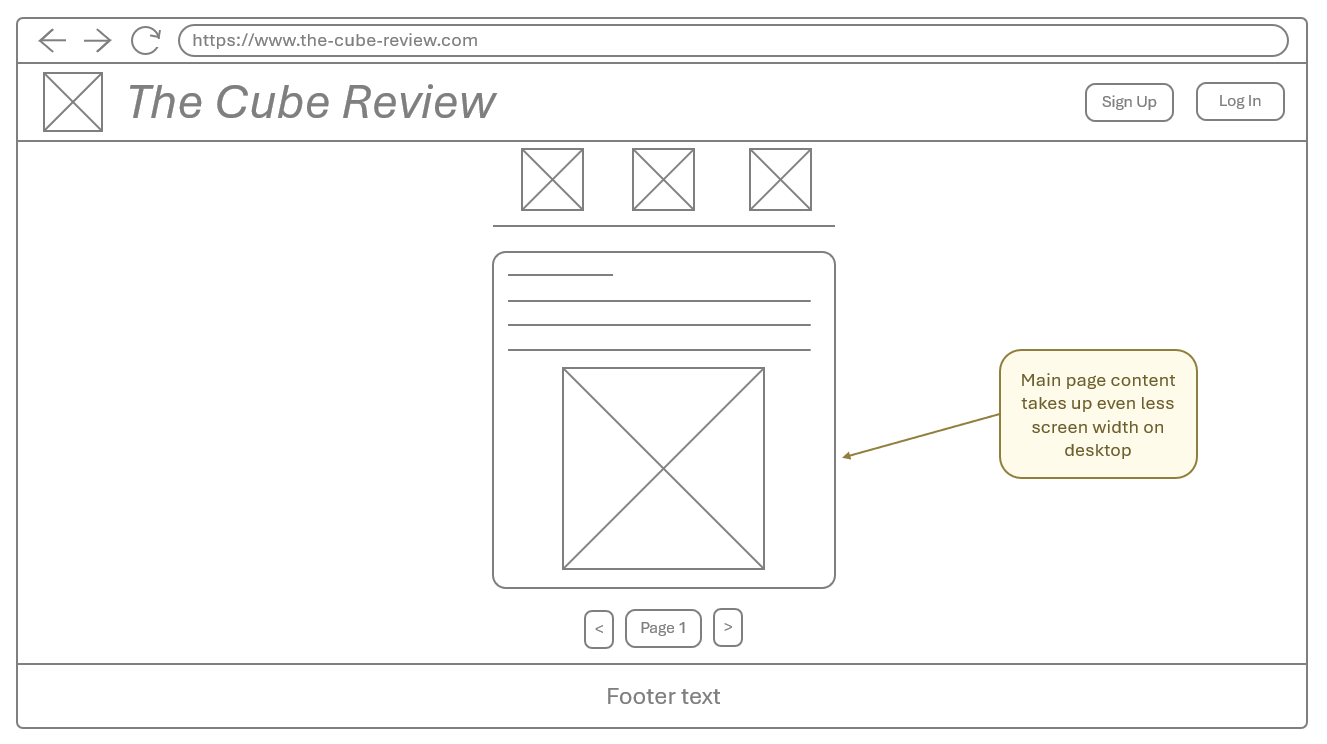
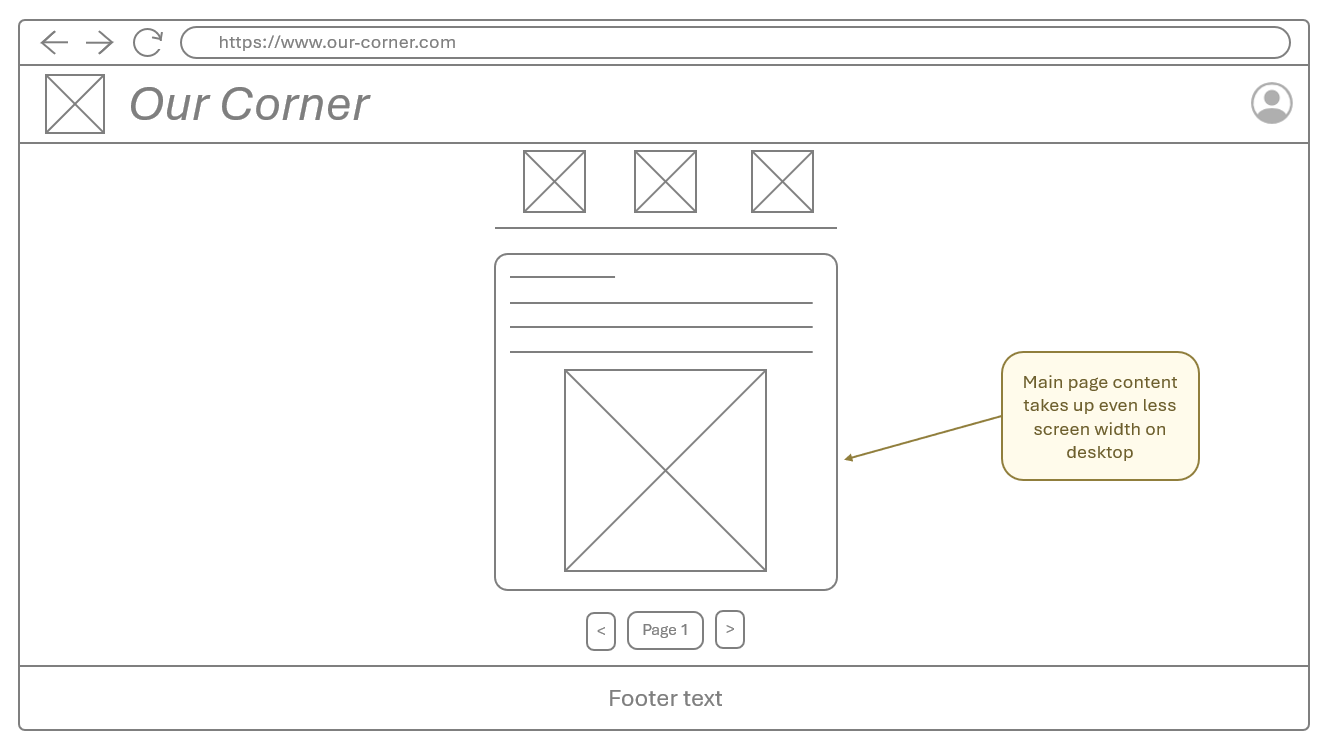
Replace placeholder wireframe images with final ones

diff --git a/README.md b/README.md
@@ -205,9 +205,7 @@ Although other fonts could have been implemented, the default fonts work very we
 
 ### Page Layout
 
-Wireframes were created based on the initial page layout designs for various screen sizes. The final deployed application has some minor stylistic changes/additions, but for the most part follows the same general design. Wireframes shown below:
-
-***WIREFRAMES STILL PENDING - EXAMPLES BELOW***
+Wireframes were created based on the initial page layout designs for various screen sizes. The final deployed application has some minor stylistic changes/additions, and the layout of content differs between the main sections, but for the most part follows the same general design. Wireframes shown below:
 
 #### Wireframe Mobile
 ![Wireframe Mobile](/readme-docs/wireframe-mobile.png)
